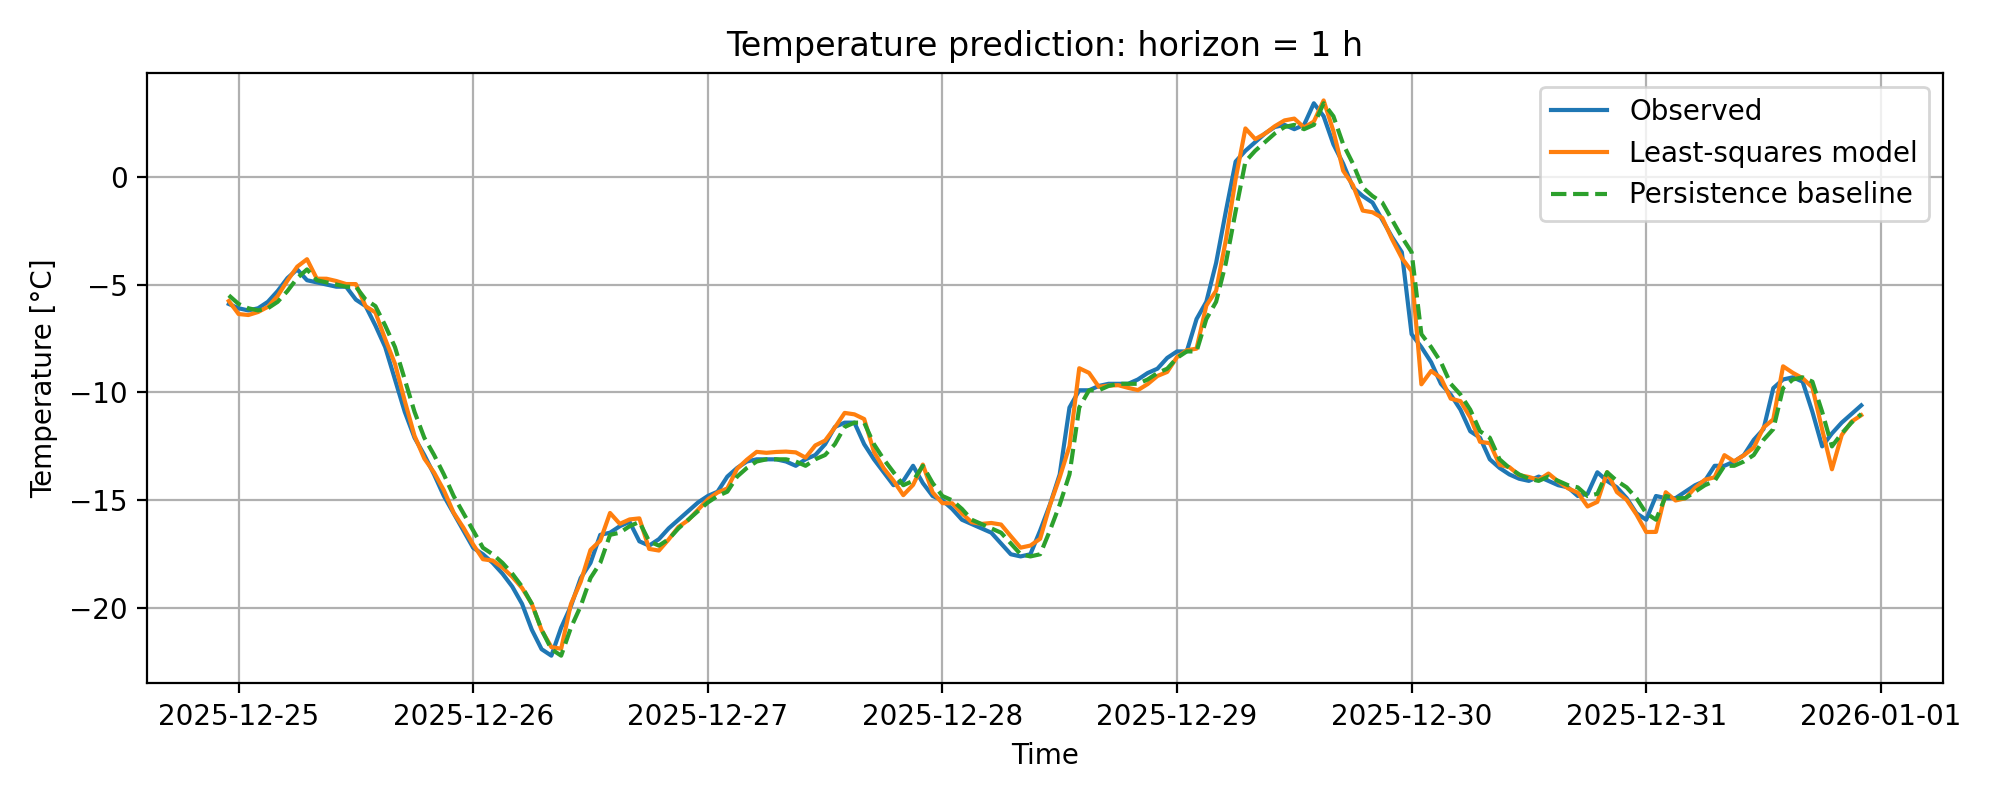
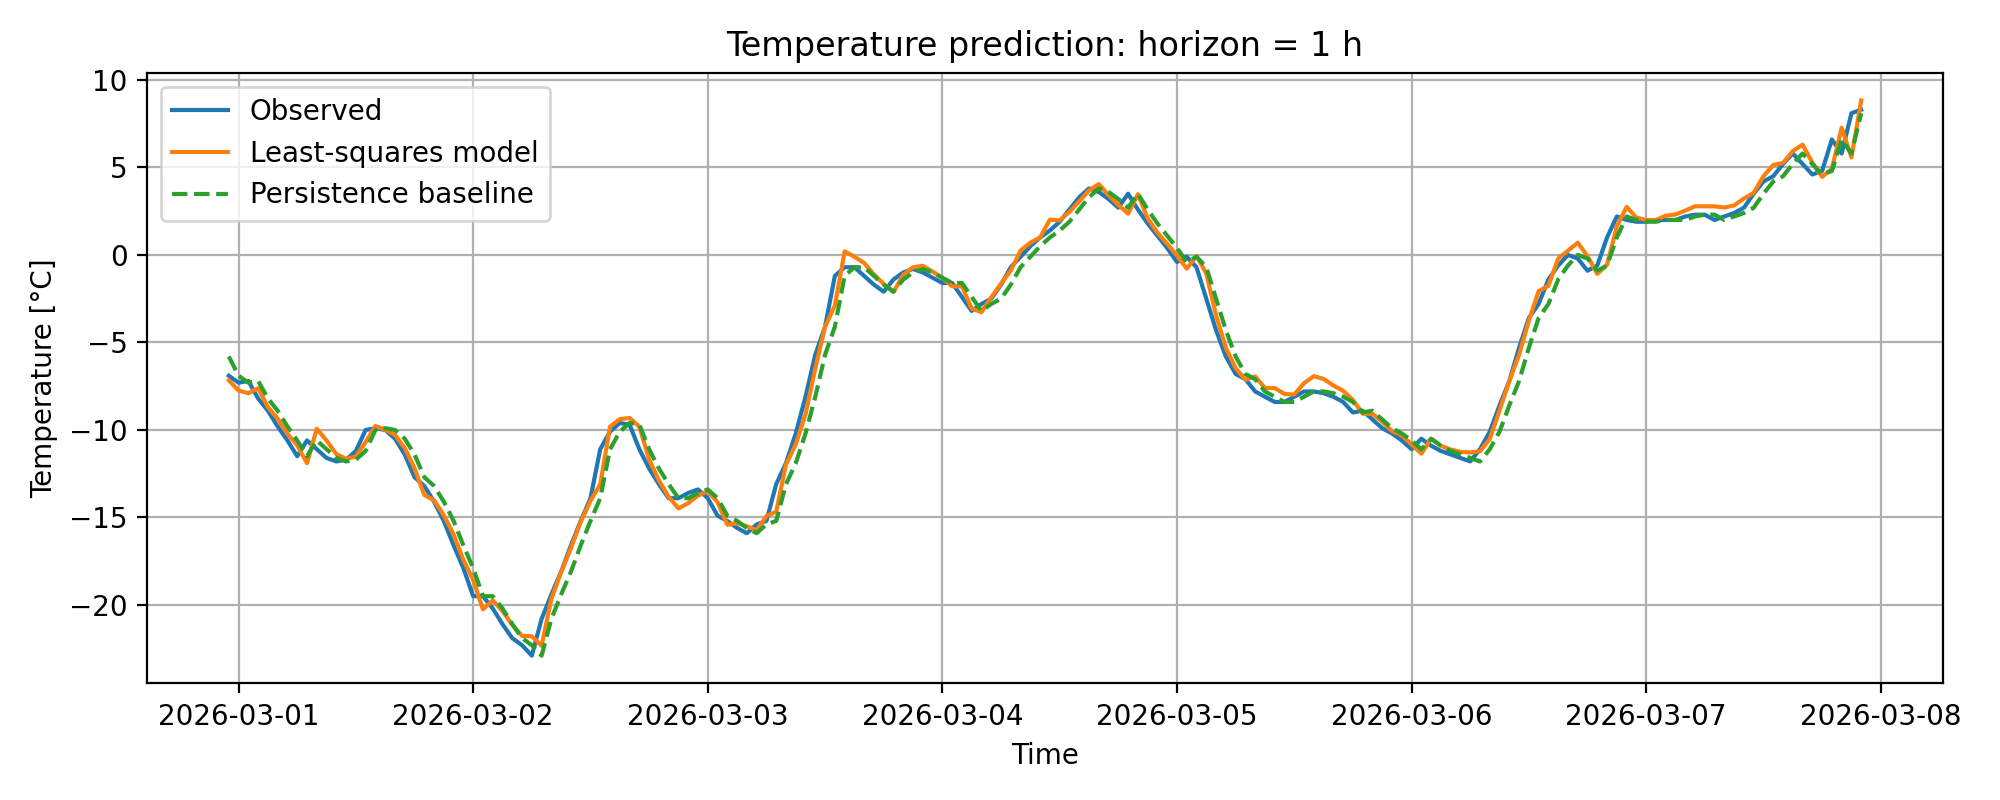
added model parameters csv and commented code

diff --git a/code/project_emanuele.py b/code/project_emanuele.py
@@ -17,7 +17,7 @@ class Location:
     lon: float
     timezone: str
 
-
+# weather location
 MONTREAL = Location(
     name="Montreal, QC",
     lat=45.5017,
@@ -25,6 +25,7 @@ MONTREAL = Location(
     timezone="America/Montreal",
 )
 
+# Data acquisition
 def fetch_open_meteo_hourly(
     start_date: str,
     end_date: str,
@@ -112,6 +113,11 @@ def preprocess(df: pd.DataFrame) -> pd.DataFrame:
 
 # TODO: Students you might find this function useful
 def add_lags(df: pd.DataFrame, col: str, lags: List[int]) -> pd.DataFrame:
+    """
+    Add lagged versions of one column.
+
+    A lag of L means the value from L hours earlier is used as a predictor.
+    """
     for L in lags:
         if L <= 0:
             continue
@@ -120,23 +126,46 @@ def add_lags(df: pd.DataFrame, col: str, lags: List[int]) -> pd.DataFrame:
 
 # TODO: Students you might find this function useful
 def split_train_val(data: pd.DataFrame, val_hours: int) -> Tuple[pd.DataFrame, pd.DataFrame]:
+    """
+    Split the supervised dataset into:
+    - training data: all rows except the last val_hours
+    - validation data: the final val_hours rows
+    """
     if len(data) <= val_hours + 10:
         raise ValueError("Not enough samples for requested validation window.")
     return data.iloc[:-val_hours].copy(), data.iloc[-val_hours:].copy()
 
+# Least-squares solver and error metrics
 def solve_least_squares_svd(A: np.ndarray, y: np.ndarray) -> np.ndarray:
+    """
+    Solve the least-squares system A x ≈ y using singular value decomposition.
+
+    This returns the coefficient vector x that minimizes ||A x - y||^2.
+    """
     U, S, Vh = np.linalg.svd(A, full_matrices=False)
     S_inv = np.diag(1.0 / S)
     x = Vh.T @ S_inv @ U.T @ y
     return x
 
 def rmse(y_true: np.ndarray, y_pred: np.ndarray) -> float:
+    """Return the root mean square error."""
     return float(np.sqrt(np.mean((y_true - y_pred) ** 2)))
 
 def mae(y_true: np.ndarray, y_pred: np.ndarray) -> float:
+    """Return the mean absolute error."""
     return float(np.mean(np.abs(y_true - y_pred)))
 
+
+# Dataset construction
 def build_feature_dataframe(df: pd.DataFrame) -> pd.DataFrame:
+    """
+    Construct the predictor dataframe by adding lagged weather variables.
+
+    Included lags:
+    - Temperature: 1, 2, 3, 6, 12, 24 hours
+    - Wind speed: 1, 3, 6, 12, 24 hours
+    - Relative humidity, pressure, cloud cover, precipitation: 1 hour
+    """
     df_feat = df.copy()
 
     # Temperature lags
@@ -153,43 +182,64 @@ def build_feature_dataframe(df: pd.DataFrame) -> pd.DataFrame:
     return df_feat
 
 def prepare_supervised_data(df_feat: pd.DataFrame, horizon: int) -> Tuple[pd.DataFrame, List[str]]:
+    """
+    For a chosen horizon h, the target is the temperature h hours ahead:
+        T_target(k) = T(k + h)
+
+    Rows containing missing values are dropped because lagging and shifting
+    naturally create NaNs near the beginning and end of the dataset.
+    """
     data = df_feat.copy()
 
     # Future target
     data["T_target"] = data["T"].shift(-horizon)
 
+    # Use every column except the target itself as an input feature.
     feature_cols = [
         col for col in data.columns
         if col not in ["T_target"]
     ]
-    
+    # Remove rows with missing values caused by lagging and target shifting.
     data = data.dropna()
 
     return data, feature_cols
 
+
+# Model training and validation
 def run_horizon_model(df: pd.DataFrame, horizon: int, val_hours: int = 24 * 7) -> dict:
+    """
+    Train and evaluate a least-squares model for one forecast horizon.
+
+    A separate model is fitted for each horizon because the target temperature
+    changes depending on how far ahead the prediction is made.
+    """
     data, feature_cols = prepare_supervised_data(df, horizon)
 
+    # Split chronologically into training and validation subsets.
     train_df, val_df = split_train_val(data, val_hours=val_hours)
 
+    # Build input matrices and target vectors.
     X_train = train_df[feature_cols].to_numpy(dtype=float)
     y_train = train_df["T_target"].to_numpy(dtype=float)
 
     X_val = val_df[feature_cols].to_numpy(dtype=float)
     y_val = val_df["T_target"].to_numpy(dtype=float)
 
-    # Add intercept
+    # Add a column of ones so the linear model includes an intercept term.
     X_train = np.column_stack([np.ones(len(X_train)), X_train])
     X_val = np.column_stack([np.ones(len(X_val)), X_val])
 
+    # Estimate least-squares regression coefficients from the training set.
     coeffs = solve_least_squares_svd(X_train, y_train)
 
+    # Compute model predictions on both training and validation sets.
     y_train_pred = X_train @ coeffs
     y_val_pred = X_val @ coeffs
 
     # Persistence baseline: predict future temperature as current temperature
     y_val_base = val_df["T"].to_numpy(dtype=float)
 
+    # Store fitted parameters, metrics, and validation predictions.
     results = {
         "horizon_h": horizon,
         "coeffs": coeffs,
@@ -208,6 +258,7 @@ def run_horizon_model(df: pd.DataFrame, horizon: int, val_hours: int = 24 * 7) -
 
     return results
 
+# Plotting
 def plot_validation(results: dict, save_dir: str = "plots") -> None:
     os.makedirs(save_dir, exist_ok=True)
 
@@ -227,21 +278,27 @@ def plot_validation(results: dict, save_dir: str = "plots") -> None:
     plt.savefig(os.path.join(save_dir, f"validation_h{h}.png"), dpi=200)
     plt.show()
 
+# Main program
 if __name__ == "__main__":
-    start_date = "2025-01-01"
-    end_date = "2025-12-31"
+    # Define the time period of interest.
+    start_date = "2026-01-01"
+    end_date = "2026-03-07"
 
     print(f"Fetching Open-Meteo hourly data for {MONTREAL.name}...")
     df_raw = fetch_open_meteo_hourly(start_date, end_date, location=MONTREAL)
 
+    #print(df_raw)
     print("Preprocessing...")
     df = preprocess(df_raw)
+    #print(df)
 
+    # Build lagged predictors used by the regression model.
     print("Building lagged features...")
     df_feat = build_feature_dataframe(df)
 
     os.makedirs("plots", exist_ok=True)
 
+    # Plot the temperature history over the selected time range.
     plt.figure(figsize=(10, 4))
     df["T"].plot(linewidth=1)
     plt.title("Montreal hourly temperature (2m)")
@@ -251,13 +308,27 @@ if __name__ == "__main__":
     plt.savefig("plots/montreal_temperature.png", dpi=200)
     plt.show()
 
+    # Forecast horizons to be tested, in hours.
     horizons = [1, 3, 6, 12, 24, 48]
     summary = []
 
+    # Fit one least-squares model for each forecast horizon.
     for h in horizons:
         print(f"\nRunning horizon = {h} h")
         results = run_horizon_model(df_feat, horizon=h, val_hours=24 * 7)
 
+        # Save the estimated model parameters for this horizon.
+        param_df = pd.DataFrame({
+            "parameter": results["feature_cols"],
+            "value": results["coeffs"]
+        })
+
+        print(f"\nEstimated model parameters for horizon = {h} h:")
+        print(param_df.to_string(index=False))
+
+        param_df.to_csv(f"plots/model_parameters_h{h}.csv", index=False)
+
+        # Store performance metrics for later summary comparison.
         summary.append({
             "horizon_h": results["horizon_h"],
             "train_rmse": results["train_rmse"],
@@ -268,8 +339,10 @@ if __name__ == "__main__":
             "baseline_mae": results["baseline_mae"],
         })
 
+        # Plot validation predictions for this horizon.
         plot_validation(results, save_dir="plots")
 
+    # Create and save a summary table comparing all horizons.
     summary_df = pd.DataFrame(summary)
     print("\nSummary of model performance:")
     print(summary_df.to_string(index=False))
